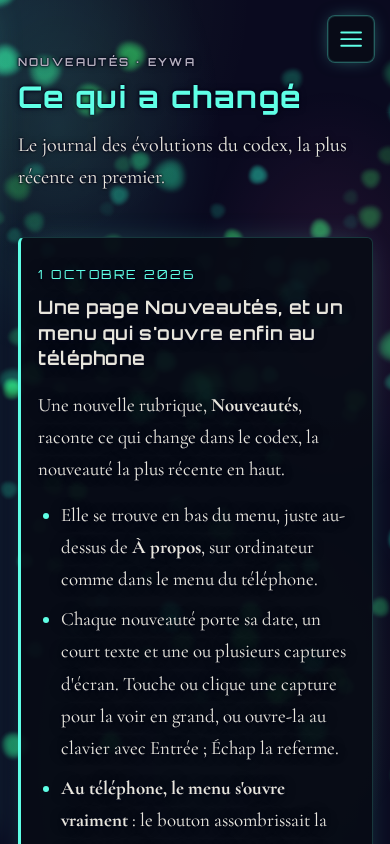
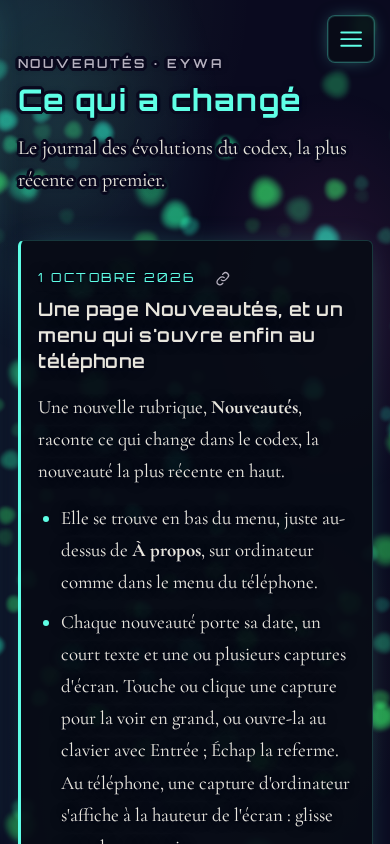
docs(L14): Nouveautés — entrée L14 complétée (pastille, lien permanent, visionneuse au téléphone, clavier), capture 390 px refaite ; CLAUDE.md

diff --git a/docs/nouveautes/2026-10-01-une-page-nouveautes-et-un-menu-qui-s-ouvre-au-telephone.md b/docs/nouveautes/2026-10-01-une-page-nouveautes-et-un-menu-qui-s-ouvre-au-telephone.md
@@ -8,6 +8,9 @@ captures: [captures/L14-page-nouveautes-telephone.png]
 Une nouvelle rubrique, **Nouveautés**, raconte ce qui change dans le codex, la nouveauté la plus récente en haut.
 
 - Elle se trouve en bas du menu, juste au-dessus de **À propos**, sur ordinateur comme dans le menu du téléphone.
-- Chaque nouveauté porte sa date, un court texte et une ou plusieurs captures d'écran. Touche ou clique une capture pour la voir en grand, ou ouvre-la au clavier avec Entrée ; Échap la referme.
+- Chaque nouveauté porte sa date, un court texte et une ou plusieurs captures d'écran. Touche ou clique une capture pour la voir en grand, ou ouvre-la au clavier avec Entrée ; Échap la referme. Au téléphone, une capture d'ordinateur s'affiche à la hauteur de l'écran : glisse pour la parcourir.
+- Une **pastille** sur le lien Nouveautés compte ce que tu n'as pas encore vu depuis ta dernière visite (un point rose sur le bouton du menu au téléphone). Sur la page, un repère « Déjà vu lors de ta visite du … » sépare le neuf de ce que tu connais déjà.
+- Chaque nouveauté a son **lien permanent** (l'icône à côté de la date), pratique pour la partager.
 - **Au téléphone, le menu s'ouvre vraiment** : le bouton assombrissait la page sans faire apparaître la liste des rubriques. Elle glisse désormais dans l'écran, même sur un très petit téléphone.
 - Le menu et l'agrandissement des images restent actifs quand tu passes d'une page à l'autre ; ils ne marchaient plus qu'à la première page visitée.
+- Au clavier, le menu du téléphone garde la main tant qu'il est ouvert, Échap le referme, et ses liens cachés ne se glissent plus dans la tabulation quand il est fermé. Sur ordinateur, le bouton du menu, inutile, a disparu.

diff --git a/CLAUDE.md b/CLAUDE.md
@@ -97,3 +97,6 @@ hautes ; guillemets « » tenus par une espace fine insécable U+202F). Après t
 d'une entrée, lancer `cd frontend && npm run news` (= `cadence news build` vers
 `frontend/public/nouveautes-data/`) et **commiter le résultat** : Cloudflare Pages construit sans
 cadence, la page lit ce JSON au build. `npm run test:scripts` échoue si le JSON versionné n'est plus à jour.
+Lien permanent `/nouveautes/#<slug>` par entrée ; pastille « non vues » sur le lien du menu et séparateur
+« Déjà vu lors de ta visite du … » (localStorage `eywa.news.seen-v1`, logique pure `src/lib/news-seen.ts`,
+script dans `Sidebar.astro` rejoué à chaque `astro:page-load`).
